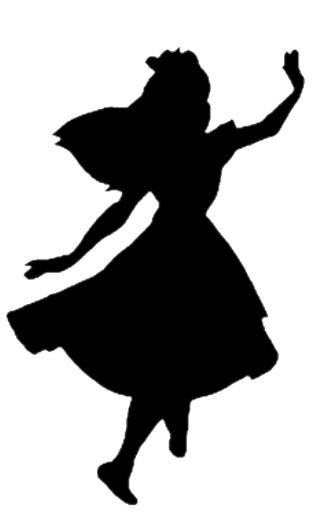
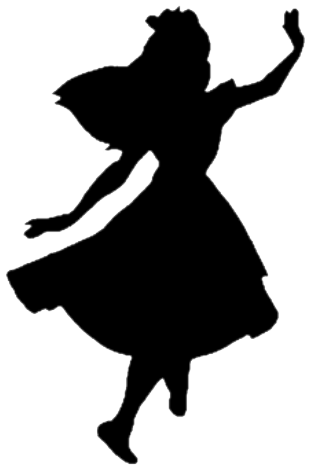
finish

diff --git a/src/views/dashboard/Comic.vue b/src/views/dashboard/Comic.vue
@@ -73,6 +73,12 @@
                   </div>
                 </div>
                 <div class="word-cloud-chart">
+                  <h4
+                    align="center"
+                    style="margin-top:30%;"
+                  >
+                    相关词云
+                  </h4>
                   <div
                     id="chart2"
                     class="word-cloud-bg"
@@ -357,7 +363,7 @@ justify-content: center;"
           list.push([this.word[0]._source.wordCloud[i].key, this.word[0]._source.wordCloud[i].value])
         }
         const option = {
-          imageShape: require('../images/test3.png'),
+          imageShape: require('../images/test4.jpg'),
           fontSizeFactor: 0.0000001,
           tooltip: {
             show: true,
@@ -365,10 +371,10 @@ justify-content: center;"
               return item[0]
             },
           },
-          maxFontSize: 25,
+          maxFontSize: 30,
           minFontSize: 0.0000000000001,
           color: 'random-light',
-          backgroundColor: 'rgba(0,0,0,.0)',
+          backgroundColor: 'rgba(0,0,0,0.0)',
           list: list,
         }
         wc.setOption(option)
@@ -51679,7 +51685,7 @@ html.ios {
 }
 .word-cloud-bg{
     width: 100%;
-    height: 500px;
+    height: 400px;
     background-size: 100% 100%;
 }
 </style>
